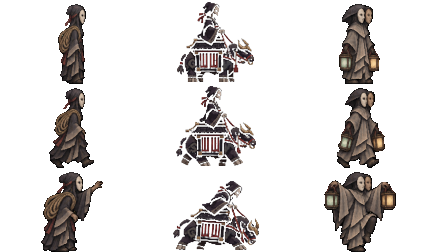
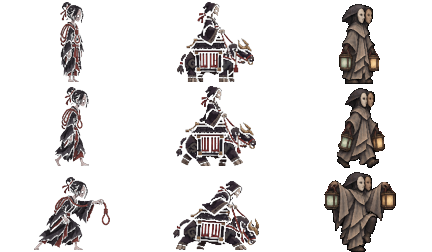
art: 上传悬线三姿势定稿并替换融契表左列
去掉地线后写入 144x84 网格，中列门骑保持上一版，右列双面灯仍为原表。

Changed region(s): [[0.0602, 0.0, 0.2708, 1.0]]

diff --git a/art/replacements/README.md b/art/replacements/README.md
@@ -7,5 +7,6 @@
 | 文件 | 游戏内路径 | 尺寸 | 状态 |
 | --- | --- | --- | --- |
 | [courtyard-stones-2172x724.png](courtyard-stones-2172x724.png) | `assets/sprites/world/inkshrine/courtyard-stones.png` | 2172×724，RGB，无透明 | 已定稿 |
-| [fusion_poses.png](fusion_poses.png) | `assets/sprites/units/p11r/fusion_poses.png` | 432×252，RGBA，3×3 网格，每格 144×84 | 已定稿（只换了中列门骑；左列悬线、右列双面灯仍为原表） |
-| [menqi-three-poses-master.png](menqi-three-poses-master.png) | 母稿，不直接进包 | 高清透明三姿势 | 已定稿，供必要时重新切片 |
+| [fusion_poses.png](fusion_poses.png) | `assets/sprites/units/p11r/fusion_poses.png` | 432×252，RGBA，3×3 网格，每格 144×84 | 已定稿（左列悬线、中列门骑已换；右列双面灯仍为原表） |
+| [menqi-three-poses-master.png](menqi-three-poses-master.png) | 母稿，不直接进包 | 高清透明三姿势 | 已定稿 |
+| [xuanxian-three-poses-master.png](xuanxian-three-poses-master.png) | 母稿，不直接进包 | 高清透明三姿势 | 已定稿 |
